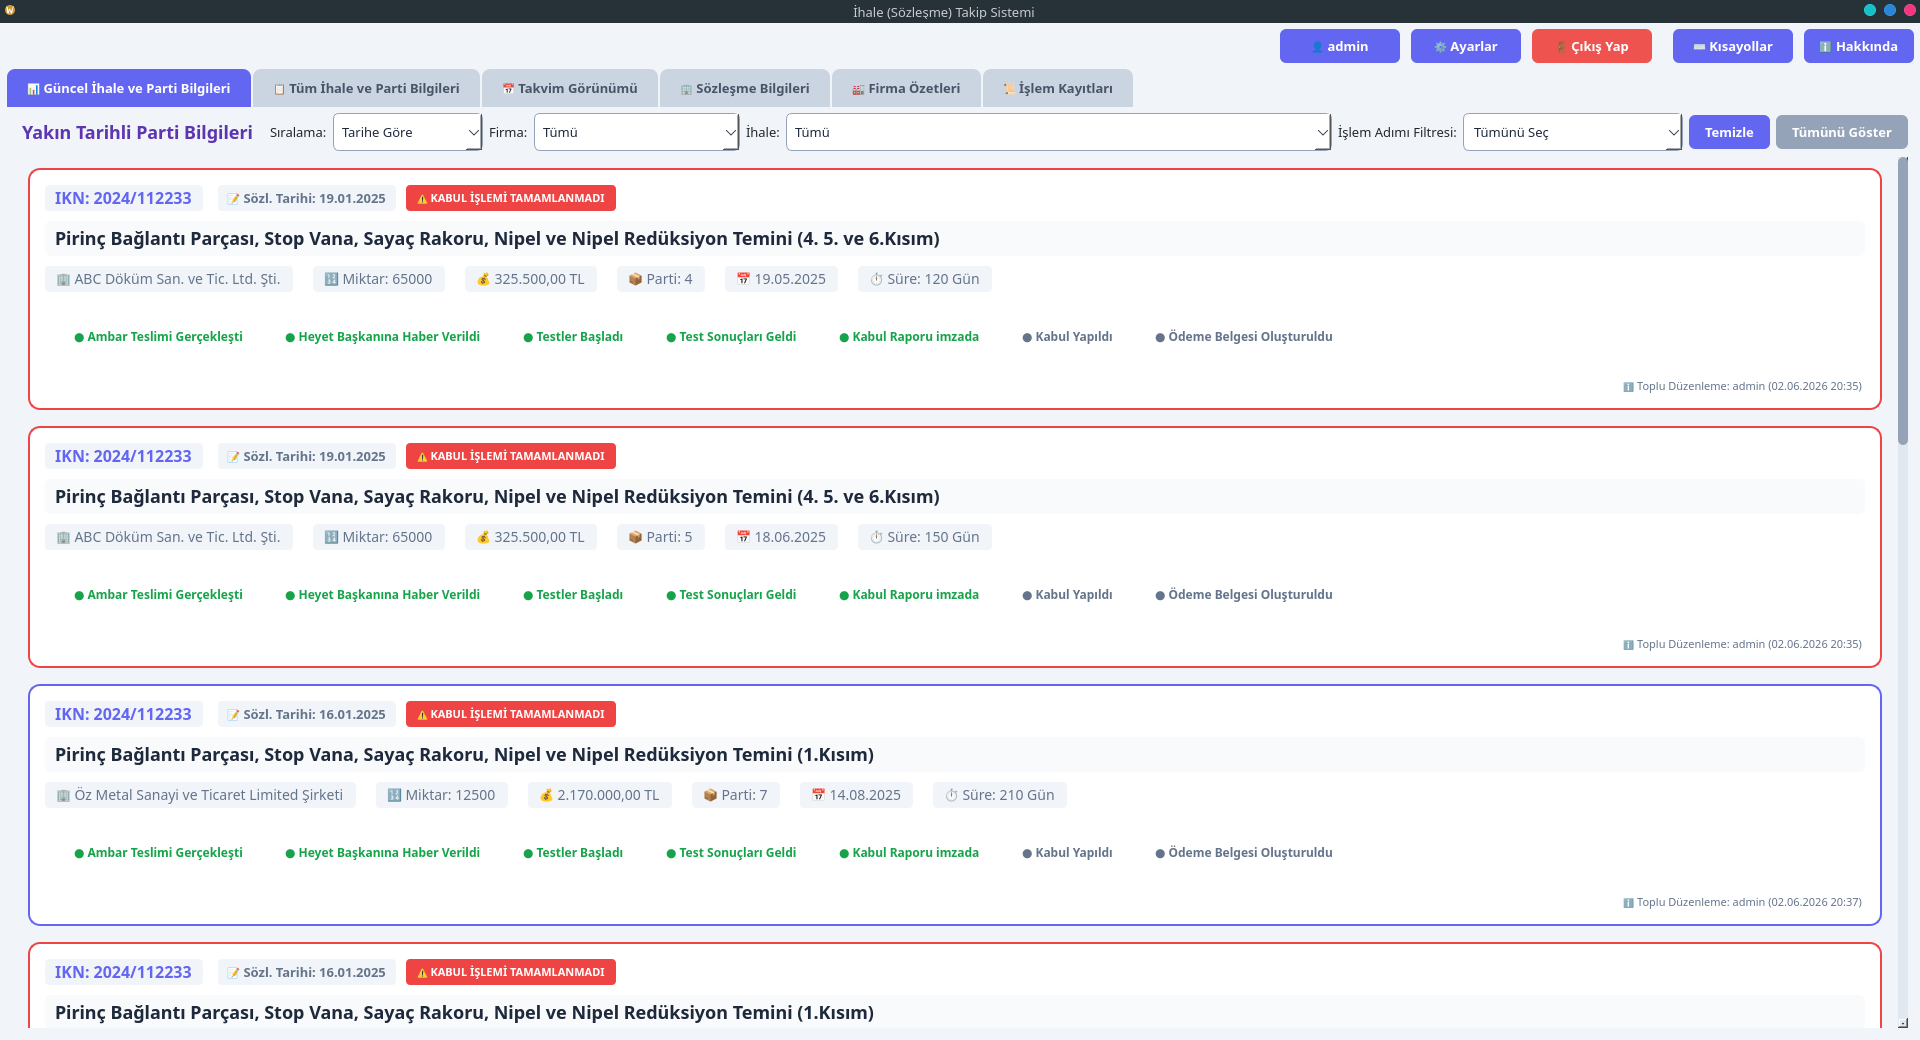
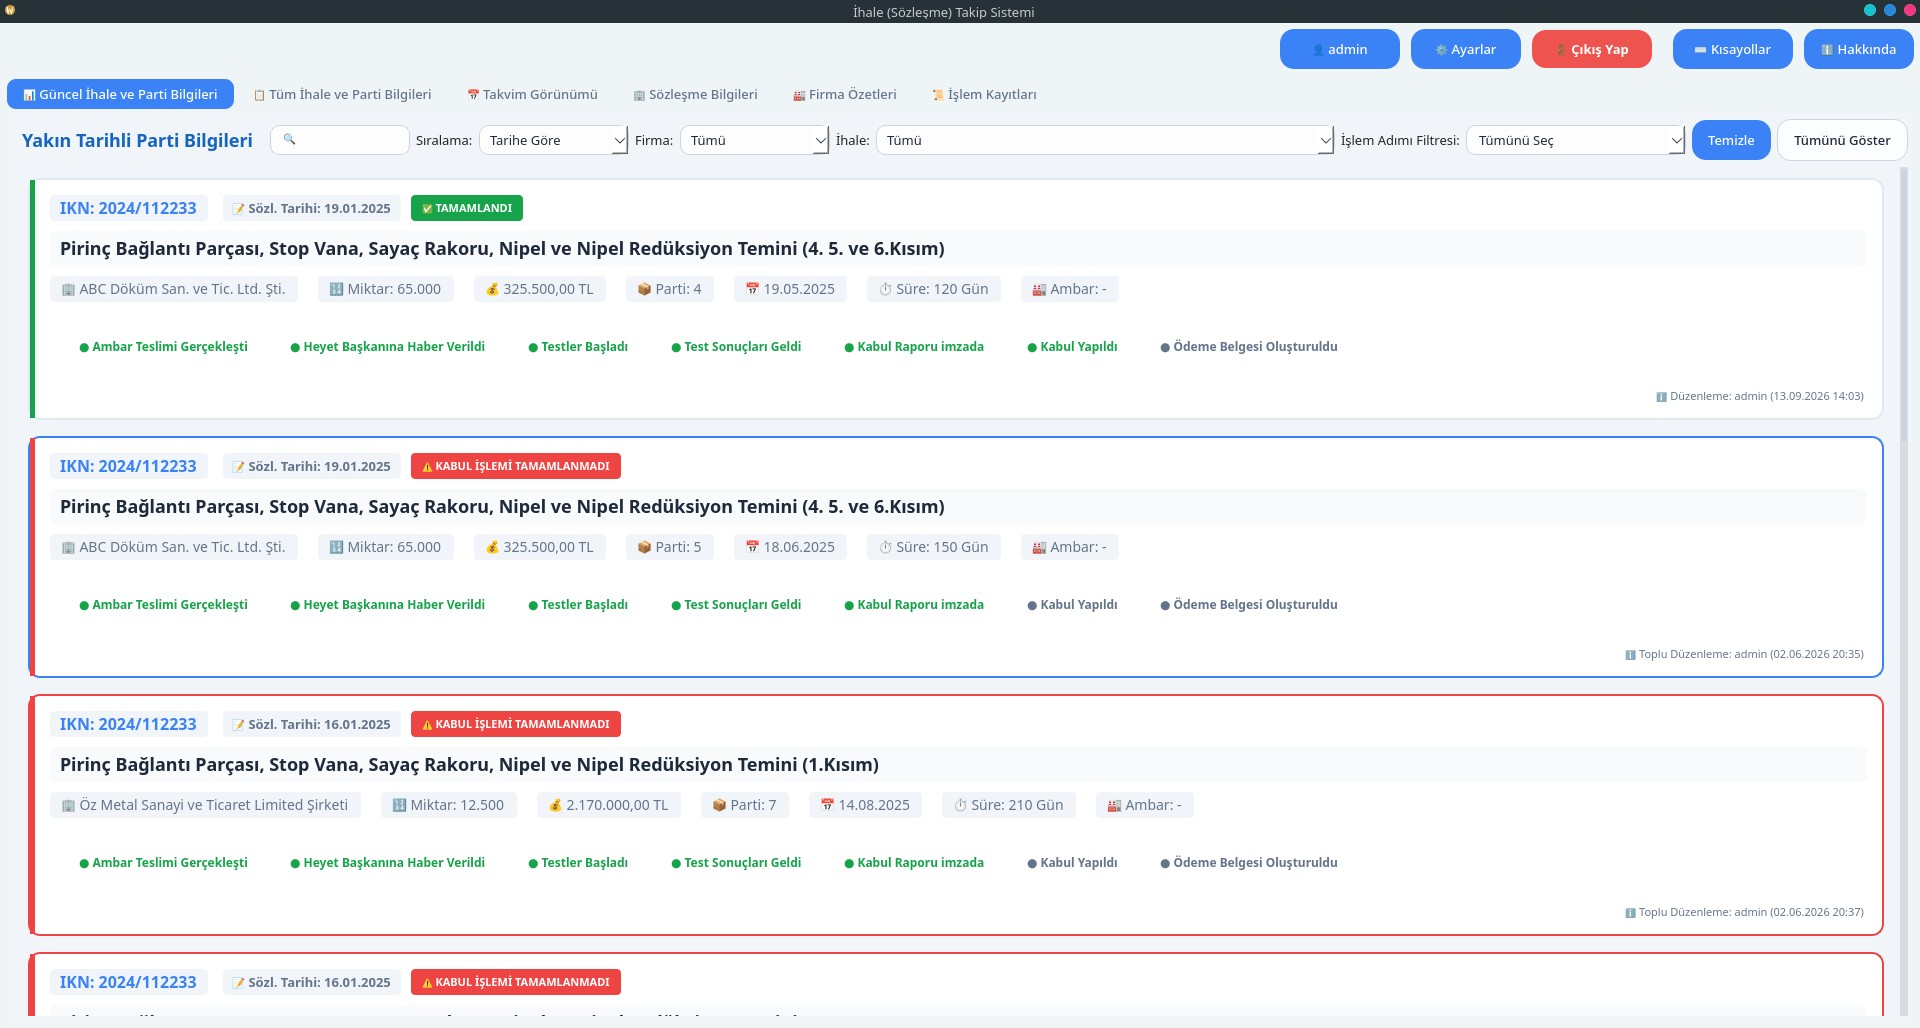
readMe.md güncellendi.

Changed region(s): [[0.0, 0.0, 1.0, 0.9961]]

diff --git a/README.md b/README.md
@@ -364,7 +364,7 @@ Uygulama sürüm bilgisi, geliştirici ve teknik detaylar.
 
 **Teknik Bilgiler:**
 
-* Platform: Google Antigravity ve OpenCode
+* Platform: Google Antigravity, OpenCode ve Cline
 * Metodoloji: Vibe Coding
 * Progrmalama Dili: Python 3.12.4
 * Framework: PyQt6 (Riverbank Computing)
